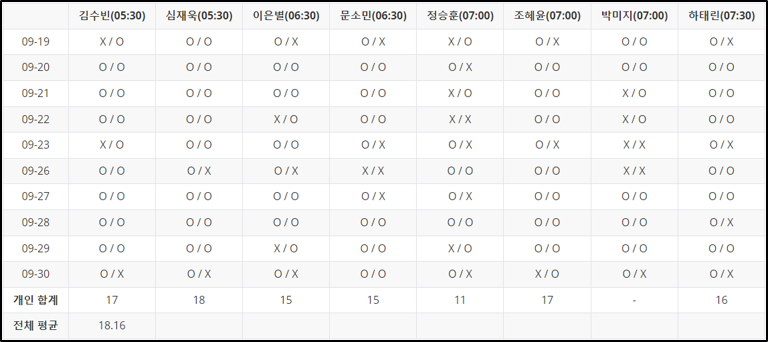
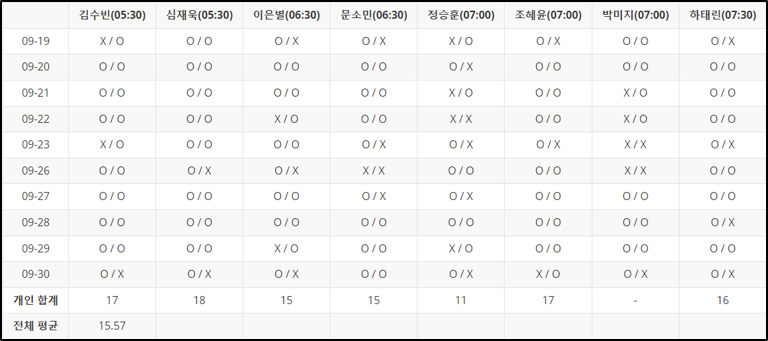
[1001] 평균값 수정

diff --git a/22년 miracle-morning/9월의 Miracle.md b/22년 miracle-morning/9월의 Miracle.md
@@ -37,7 +37,7 @@
 |     09-29     |     O / O     |     O / O     |     X / O     |     O / O     |     X / O     |     O / O     |     O / O     |     O / O     |
 |     09-30     |     O / X     |     O / X     |     O / X     |     O / O     |     O / X     |     X / O     |     O / X     |     O / X     |
 | **개인 합계** |      17       |      18       |      15       |      15       |      11       |      17       |       -       |      16       |
-| **전체 평균** |     18.16     |               |               |               |               |               |               |               |
+| **전체 평균** |     15.57     |               |               |               |               |               |               |               |
 
 <br/>
 
